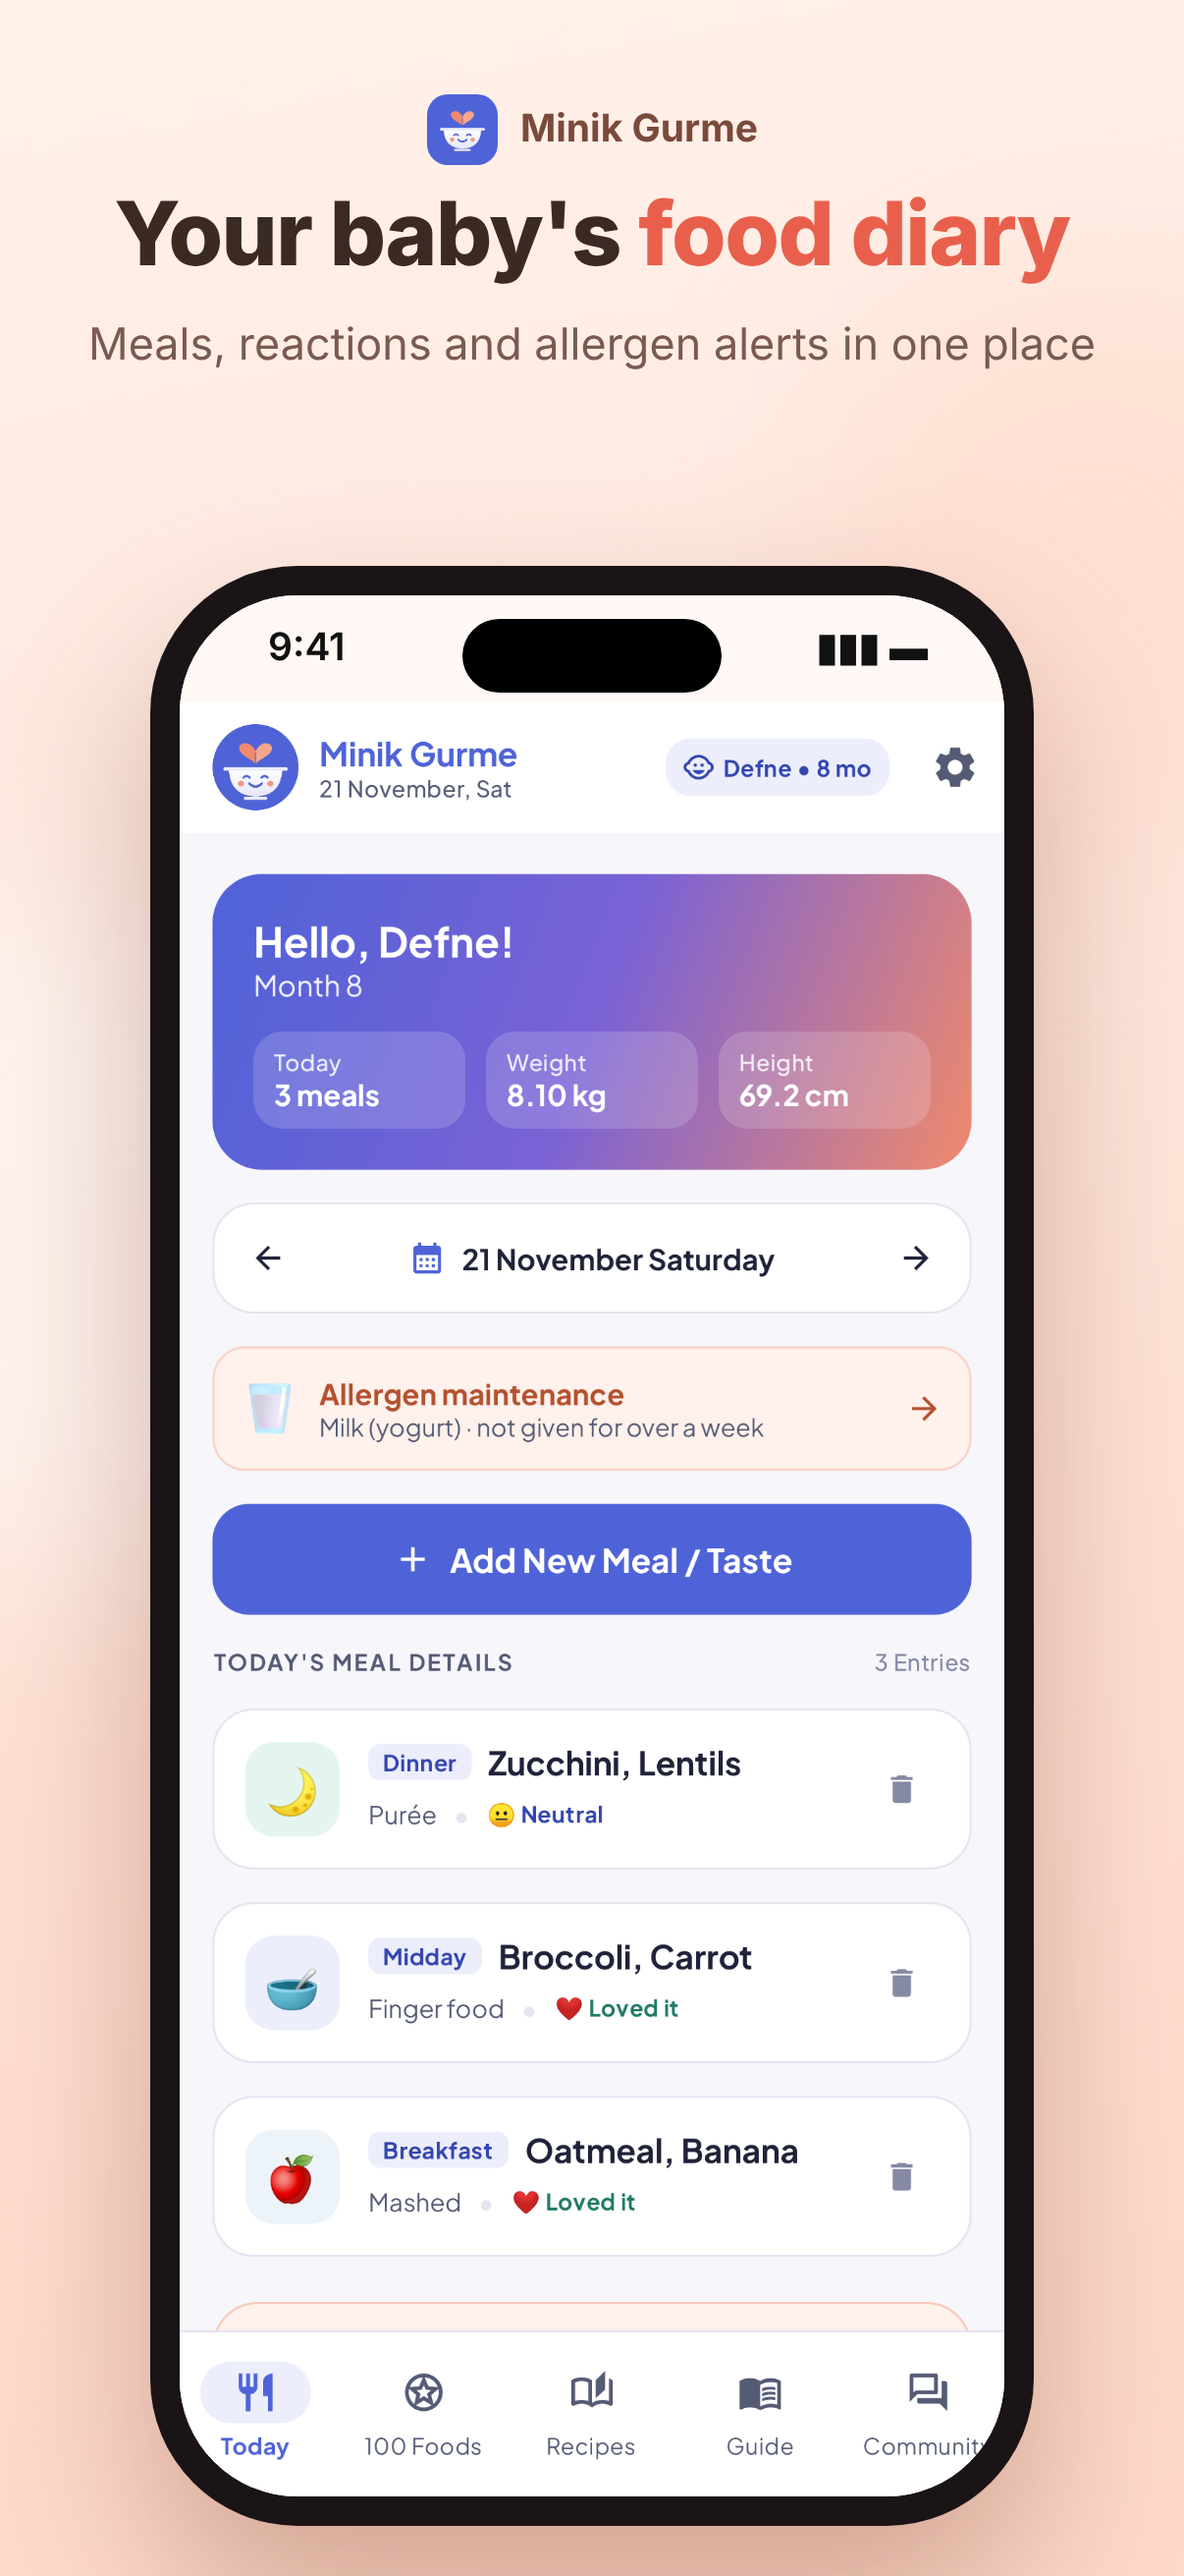
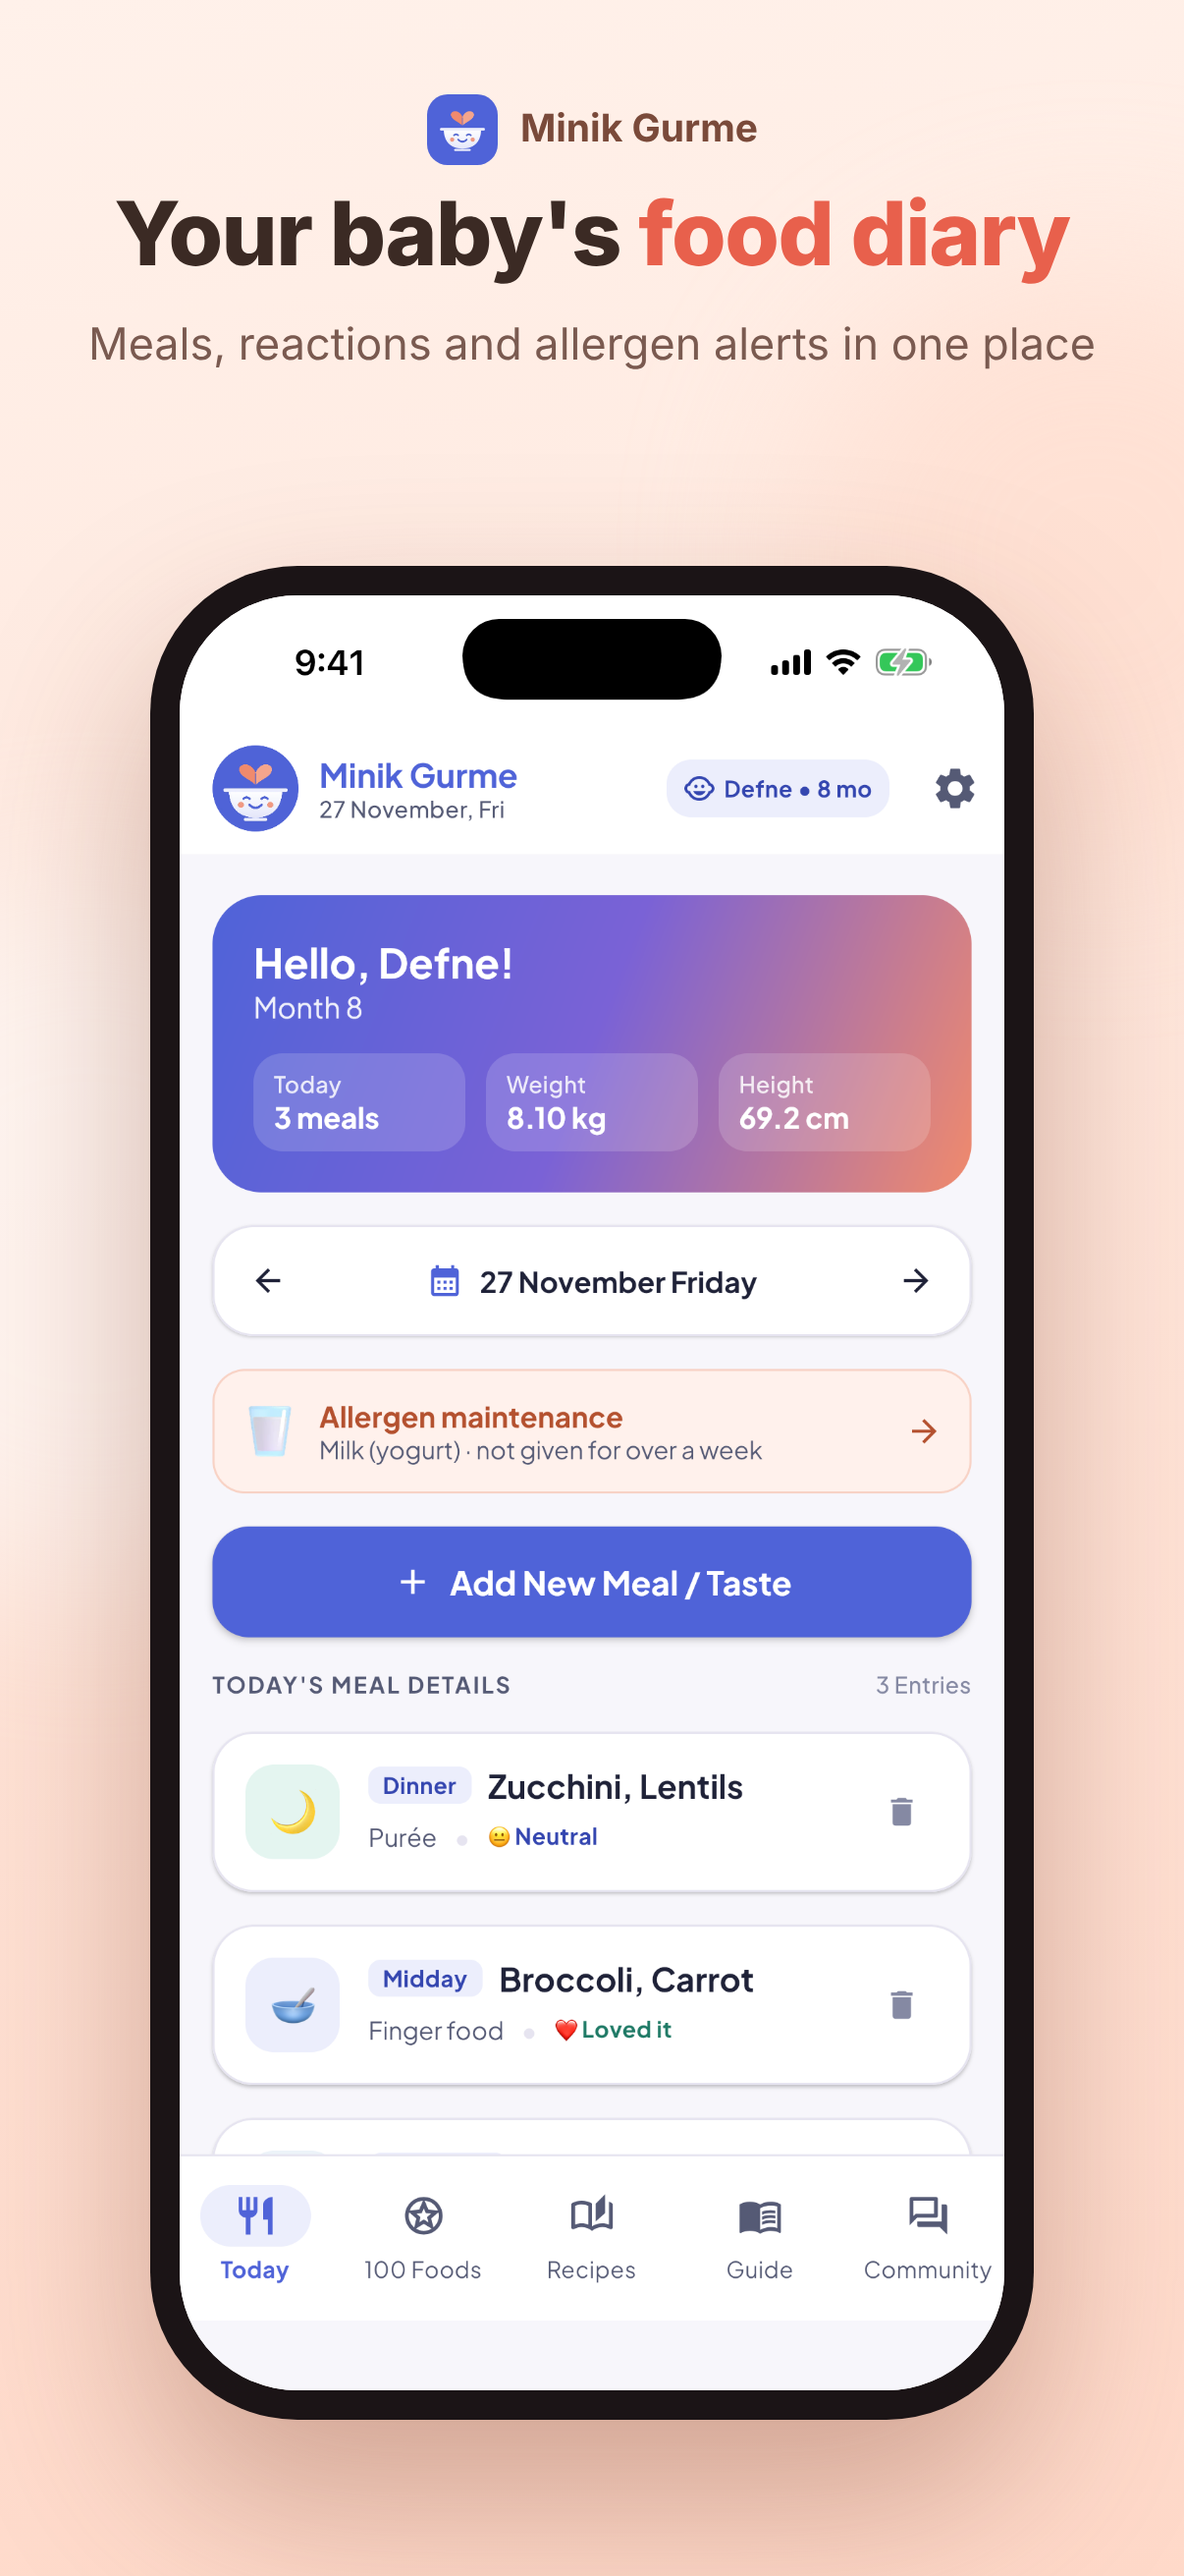
App Store görselleri gerçek iPhone simülatöründen (Apple durum çubuğu) yeniden üretildi (TR/EN 6'şar); devir notu
Claude-Session: https://claude.ai/code/session_01Q1LBDju1WbR5aicAs7nCX2

diff --git a/minik_gurme/docs/DEVIR-NOTU.md b/minik_gurme/docs/DEVIR-NOTU.md
@@ -28,6 +28,10 @@ Test: `./gradlew --no-daemon --no-configuration-cache --max-workers=2 :app:testD
 ## iOS App Store (21 Kasım 2026)
 - **1.0.0 (yapı 2) App Store Connect'e yüklendi** — `.github/workflows/minik-gurme-ios-release.yml` (GitHub Actions `macos-15-intel`, Mac/Codemagic'siz; arşiv ~30 dk). Yeniden: `minik_gurme/iosApp/RELEASE_VERSION` değiştir ya da Run workflow (ref bu dal).
 - App Store Connect: Apple ID **6837536740**, ad "Minik Gurme: Ek Gıda Takibi", TR + EN, 13+, Çin hariç, gizlilik/yaş/kategori/metinler girildi; görseller `docs/store/appstore/{tr,en}` (1206×2622, `olustur.js`, ham: `IosStoreScreenshotsTest`). Rehber: `docs/store/APP-STORE.md`.
+- **27 Kasım: App Review 2.3.10 + 1.4.1 düzeltmeleri.** Görseller artık GERÇEK iPhone simülatöründen (`minik-gurme-ios-screenshots.yml`,
+  tetik `iosApp/SCREENSHOTS_RUN`, uygulama `-mgDemo 2` ile örnek kayıtlarla) → `appstore/raw-ios` → `node olustur.js` (sahte durum çubuğu yok).
+  Kaynak bağlantıları her sağlık ekranında (`SourcesLink`). Yapı 7 sürüme bağlandı, not `inceleme-video/notes-v2.txt`, yanıt `apple-yanit-2.txt`.
+  Sürüme yapı bağlama/not: `minik-gurme-ios-asc-update.yml` (tetik `appstore/ASC_UPDATE`, içinde `build=N`). iOS'ta Kotlin/Native regex `\p{L}` desteklemez.
 - **İlk iOS sürümü Plus'sız:** `IosStore.PURCHASES_ENABLED = false` → `PlusManager.purchasesEnabled` false: Plus kartı/kilitli satırlar/"Plus'a geç" gizli, toplulukta yazma herkese açık, yasal metinlerde satın alma bölümleri yok. Abonelik ürünleri oluşturulunca true yapıp 1.0.1.
 - **21 Kasım 05:41 incelemeye gönderildi (1.0.0 yapı 2), "Waiting for Review".** Tıbbi cihaz beyanı: Hayır. Red gelirse mesajı al.
 
